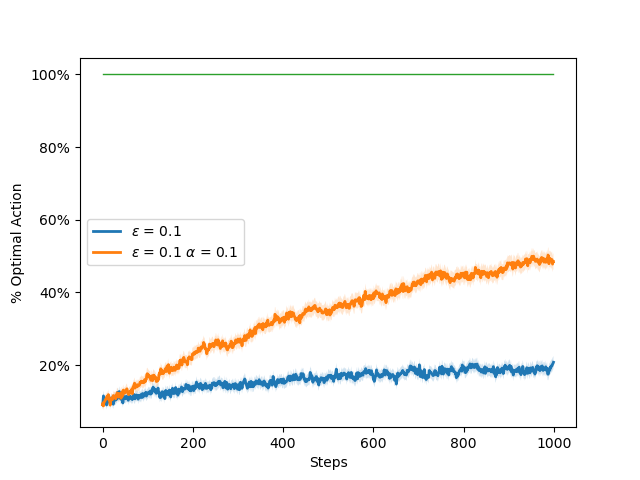
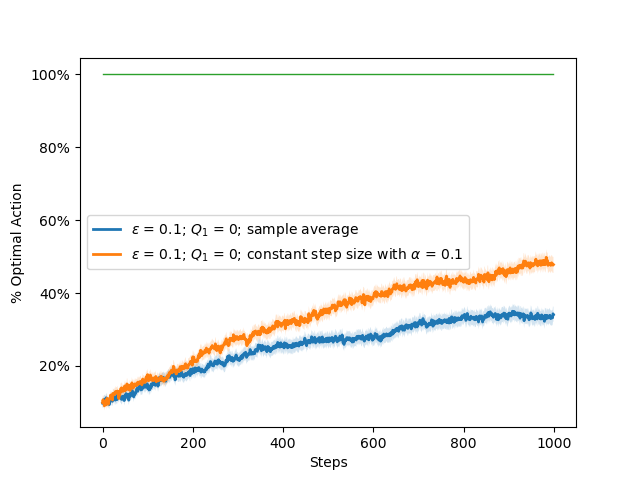
pipeline modified

Changed region(s): [[0.125, 0.4375, 0.875, 0.8438], [0.0625, 0.5938, 0.125, 0.625], [0.0625, 0.4375, 0.125, 0.4688]]

diff --git a/Ex1/src/main.py b/Ex1/src/main.py
@@ -30,11 +30,11 @@ def q4(number_of_arms=10, iterations=100):
     return
 
 
-def run_bandit_trial(B, eps, steps, stationary=True, optimal_curve_plot=False, sample_average=True, alpha=1):
+def run_bandit_trial(B, eps, ucb, c, steps, stationary=True, optimal_curve_plot=False, sample_average=True, alpha=1):
     trial_rewards = []
     optimal_rewards = []
     for i in range(steps):
-        best_action = B.choose_action(eps)
+        best_action = B.choose_action(eps, ucb, c, i+1)
         reward = best_action.play_action()
         if sample_average:
             best_action.exponential_recency_weighted_average(reward, 1/(best_action.occurrence+1))
@@ -59,11 +59,18 @@ def plot_curve(runs, param_list, steps, average_blocks, total_optimal_rewards, o
         ydata_std /= np.sqrt(runs)
         ydata_std *= 1.96
         label_set = ''
-        if param_list[i].alpha == 1:
-            label_set += r'$\epsilon$ = ' + str(param_list[i].epsilon)
+        # if param_list[i].sample_average:
+        #     label_set += r'$\epsilon$ = ' + str(param_list[i].epsilon)
+        #     # label_set += r'; $Q_{1}$ = ' + str(param_list[i].initial_values[0])
+        #     # label_set += '; sample average'
+        # else:
+        #     label_set += r'$\epsilon$ = ' + str(param_list[i].epsilon)
+            # label_set += r'; $Q_{1}$ = ' + str(param_list[i].initial_values[0])
+            # label_set += '; constant step size with '+r'$\alpha$ = ' + str(param_list[i].alpha)
+        if param_list[i].ucb:
+            label_set = "UCB c = "+str(param_list[i].confidence_level)
         else:
-            label_set += r'$\epsilon$ = ' + str(param_list[i].epsilon)
-            label_set += r' $\alpha$ = ' + str(param_list[i].alpha)
+            label_set = "$\epsilon$ greedy $\epsilon$ = "+str(param_list[i].epsilon)
         plt.plot(xdata, ydata, linewidth=2, label=label_set)
         plt.fill_between(xdata, np.subtract(ydata, ydata_std), np.add(ydata, ydata_std), alpha=0.2)
     ydata = np.average(total_optimal_rewards[i], axis=0)
@@ -84,7 +91,7 @@ def plot_curve(runs, param_list, steps, average_blocks, total_optimal_rewards, o
     plt.show()
 
 
-def experiment(param_list, stationary=True, sample_average=True, optimal_curve_plot=False, number_of_arms=10, runs=200,
+def experiment(param_list, stationary=True, optimal_curve_plot=False, number_of_arms=10, runs=200,
                steps=1000):
     total_rewards = []
     total_optimal_rewards = []
@@ -106,8 +113,8 @@ def experiment(param_list, stationary=True, sample_average=True, optimal_curve_p
                 B.add_action(Action(j, 0), False)
         for params in range(len(param_list)):
             B.reset(true_values, param_list[params].initial_values)
-            rewards_per_eps, optimal_rewards_per_eps = run_bandit_trial(B, param_list[params].epsilon, steps, stationary,
-                                                                        optimal_curve_plot, sample_average, param_list[params].alpha)
+            rewards_per_eps, optimal_rewards_per_eps = run_bandit_trial(B, param_list[params].epsilon, param_list[params].ucb, param_list[params].confidence_level, steps, stationary,
+                                                                        optimal_curve_plot, param_list[params].sample_average, param_list[params].alpha)
             rewards_per_trial.append(rewards_per_eps)
             optimal_rewards_per_trial.append(optimal_rewards_per_eps)
         total_rewards.append(rewards_per_trial)
@@ -128,33 +135,32 @@ def experiment(param_list, stationary=True, sample_average=True, optimal_curve_p
 
 
 def q6(optimal_curve_plot, number_of_arms, runs, steps):
-    P1 = Params(0, 1, [0 for i in range(number_of_arms)])
-    P2 = Params(0.1, 1, [0 for i in range(number_of_arms)])
-    P3 = Params(0.01, 1, [0 for i in range(number_of_arms)])
-    experiment([P1, P2, P3], True, True, optimal_curve_plot, number_of_arms, runs, steps)
-    plt.show()
+    P1 = Params(0, 1, False, True, [0 for i in range(number_of_arms)])
+    P2 = Params(0.1, 1, False, True, [0 for i in range(number_of_arms)])
+    P3 = Params(0.01, 1, False, True, [0 for i in range(number_of_arms)])
+    experiment([P1, P2, P3], True, optimal_curve_plot, number_of_arms, runs, steps)
 
 
 def q7(optimal_curve_plot, number_of_arms, runs, steps):
-    P1 = Params(0.1, 1, [0 for i in range(number_of_arms)])
-    P2 = Params(0.1, 0.1, [0 for i in range(number_of_arms)])
-    experiment([P1, P2], False, False, optimal_curve_plot, number_of_arms, runs, steps)
-    plt.show()
+    P1 = Params(0.1, 1, False, True, [0 for i in range(number_of_arms)])
+    P2 = Params(0.1, 0.1, False, False, [0 for i in range(number_of_arms)])
+    experiment([P1, P2], False, optimal_curve_plot, number_of_arms, runs, steps)
 
 def q8(optimal_curve_plot, number_of_arms, runs, steps):
-    P1 = Params(0, 1, [5 for i in range(number_of_arms)])
-    P2 = Params(0.1, 1, [0 for i in range(number_of_arms)])
-    P3 = Params(0.1, 1, [5 for i in range(number_of_arms)])
-    P4 = Params(0, 1, [0 for i in range(number_of_arms)])
-    experiment([P1, P2, P3, P4], True, True, optimal_curve_plot, number_of_arms, runs, steps)
-    plt.show()
+    P1 = Params(0, 1, False, True, [5 for i in range(number_of_arms)])
+    P2 = Params(0.1, 1, False, True, [0 for i in range(number_of_arms)])
+    P3 = Params(0.1, 1, False, True, [5 for i in range(number_of_arms)])
+    P4 = Params(0, 1, False, True, [0 for i in range(number_of_arms)])
+    # experiment([P1, P2, P3, P4], True, True, optimal_curve_plot, number_of_arms, runs, steps)
+    P5 = Params(0, 1, True, True, [0 for i in range(number_of_arms)])
+    P6 = Params(0.1, 1, False, True, [0 for i in range(number_of_arms)])
+    experiment([P5, P6], True, optimal_curve_plot, number_of_arms, runs, steps)
 
 if __name__ == "__main__":
     number_of_arms = 10
     runs = 2000
-    steps = 1000
+    steps = 10000
     optimal_curve_plot = True
-    sample_average_method = True
     # q4(10,1000)
     # q6(optimal_curve_plot, number_of_arms, runs, steps)
     # q7(optimal_curve_plot, number_of_arms, runs, steps)

diff --git a/Ex1/src/Bandit.py b/Ex1/src/Bandit.py
@@ -28,16 +28,33 @@ class Bandit:
             self.optimal_action = action
         return
 
-    def choose_action(self, epsilon):
-        val = random.random()
-        if val <= epsilon:
-            return random.choice(self.actions)
-        else:
-            all_values = [i.current_value for i in self.actions]
-            max_value = max(all_values)
-            action_list = []
-            for i in self.actions:
-                if i.current_value == max_value:
-                    action_list.append(i)
-            best_action = random.choice(action_list)
+    def choose_action(self, epsilon, ucb=False, c=2, t=1):
+        if ucb:
+            action_options = []
+            max_ucb_value = 0
+            ucb_values = []
+            ucb_dict = {}
+            for i in range(len(self.actions)):
+                curr_ucb_value = self.actions[i].current_value + c * np.sqrt(
+                    (np.log(t) / (self.actions[i].occurrence + 1)))
+                ucb_values.append(curr_ucb_value)
+                ucb_dict[self.actions[i]] = curr_ucb_value
+                max_ucb_value = max(max_ucb_value, curr_ucb_value)
+            for i in ucb_dict:
+                if ucb_dict[i]==max_ucb_value:
+                    action_options.append(i)
+            best_action = random.choice(action_options)
             return best_action
+        else:
+            val = random.random()
+            if val <= epsilon:
+                return random.choice(self.actions)
+            else:
+                all_values = [i.current_value for i in self.actions]
+                max_value = max(all_values)
+                action_list = []
+                for i in self.actions:
+                    if i.current_value == max_value:
+                        action_list.append(i)
+                best_action = random.choice(action_list)
+                return best_action

diff --git a/Ex1/src/Params.py b/Ex1/src/Params.py
@@ -1,5 +1,8 @@
 class Params:
-    def __init__(self, eps, alpha, initial_values):
+    def __init__(self, eps, alpha, ucb, sample_average, initial_values, confidence_level = 2):
         self.epsilon = eps
         self.alpha = alpha
+        self.ucb = ucb
         self.initial_values = initial_values
+        self.sample_average = sample_average
+        self.confidence_level = confidence_level
